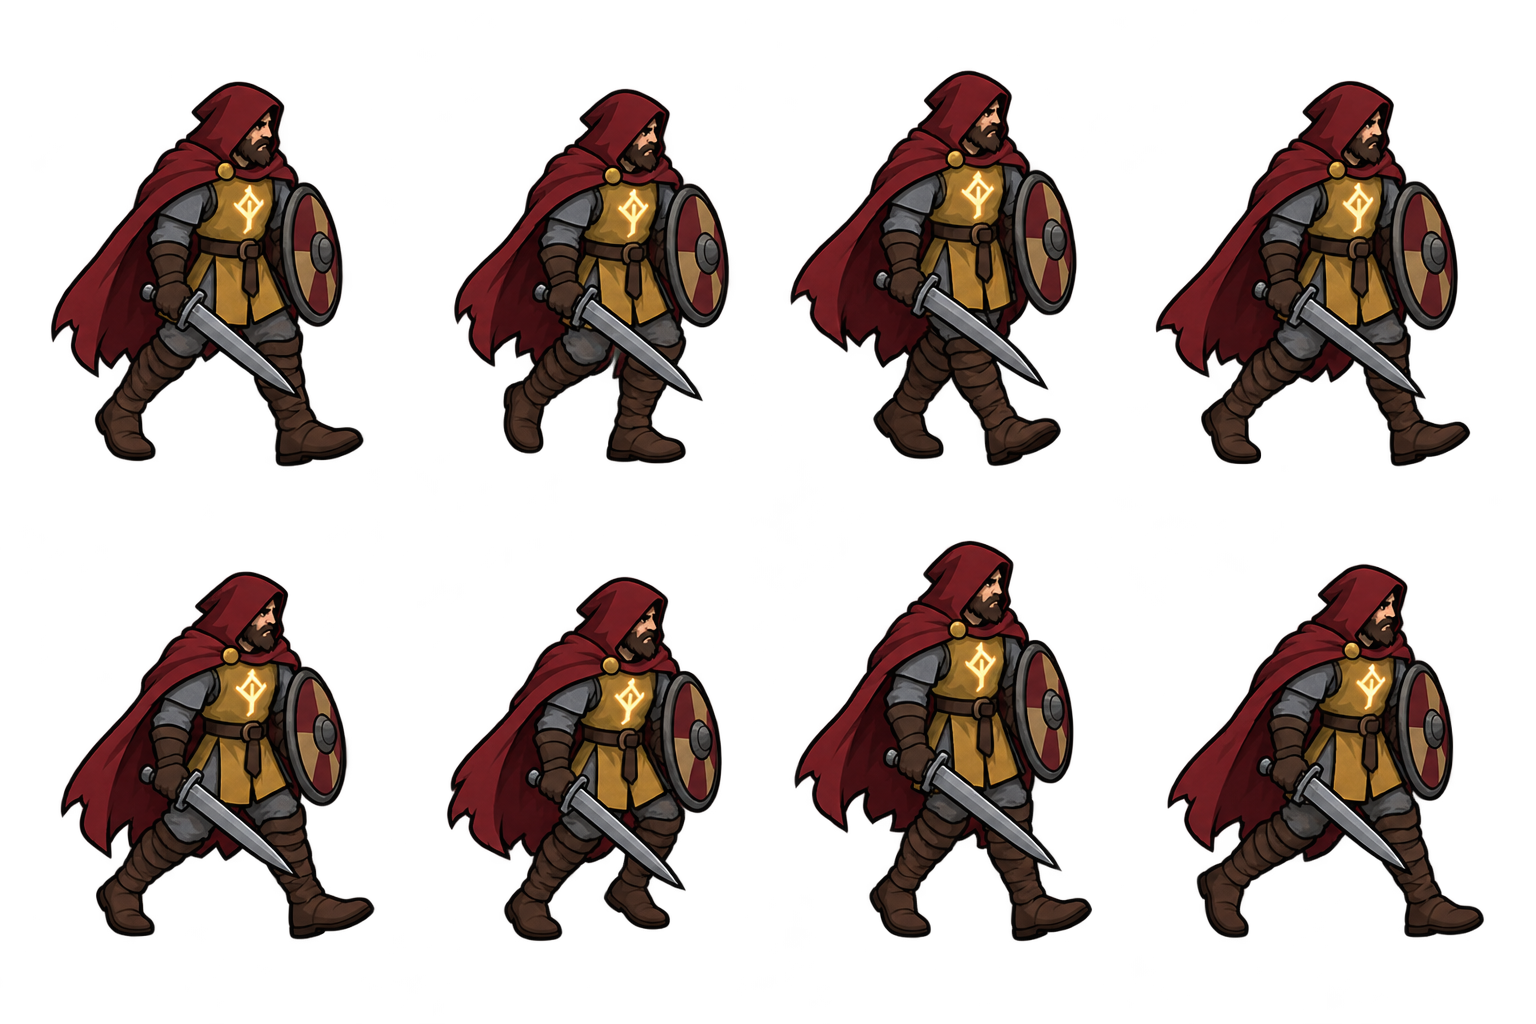
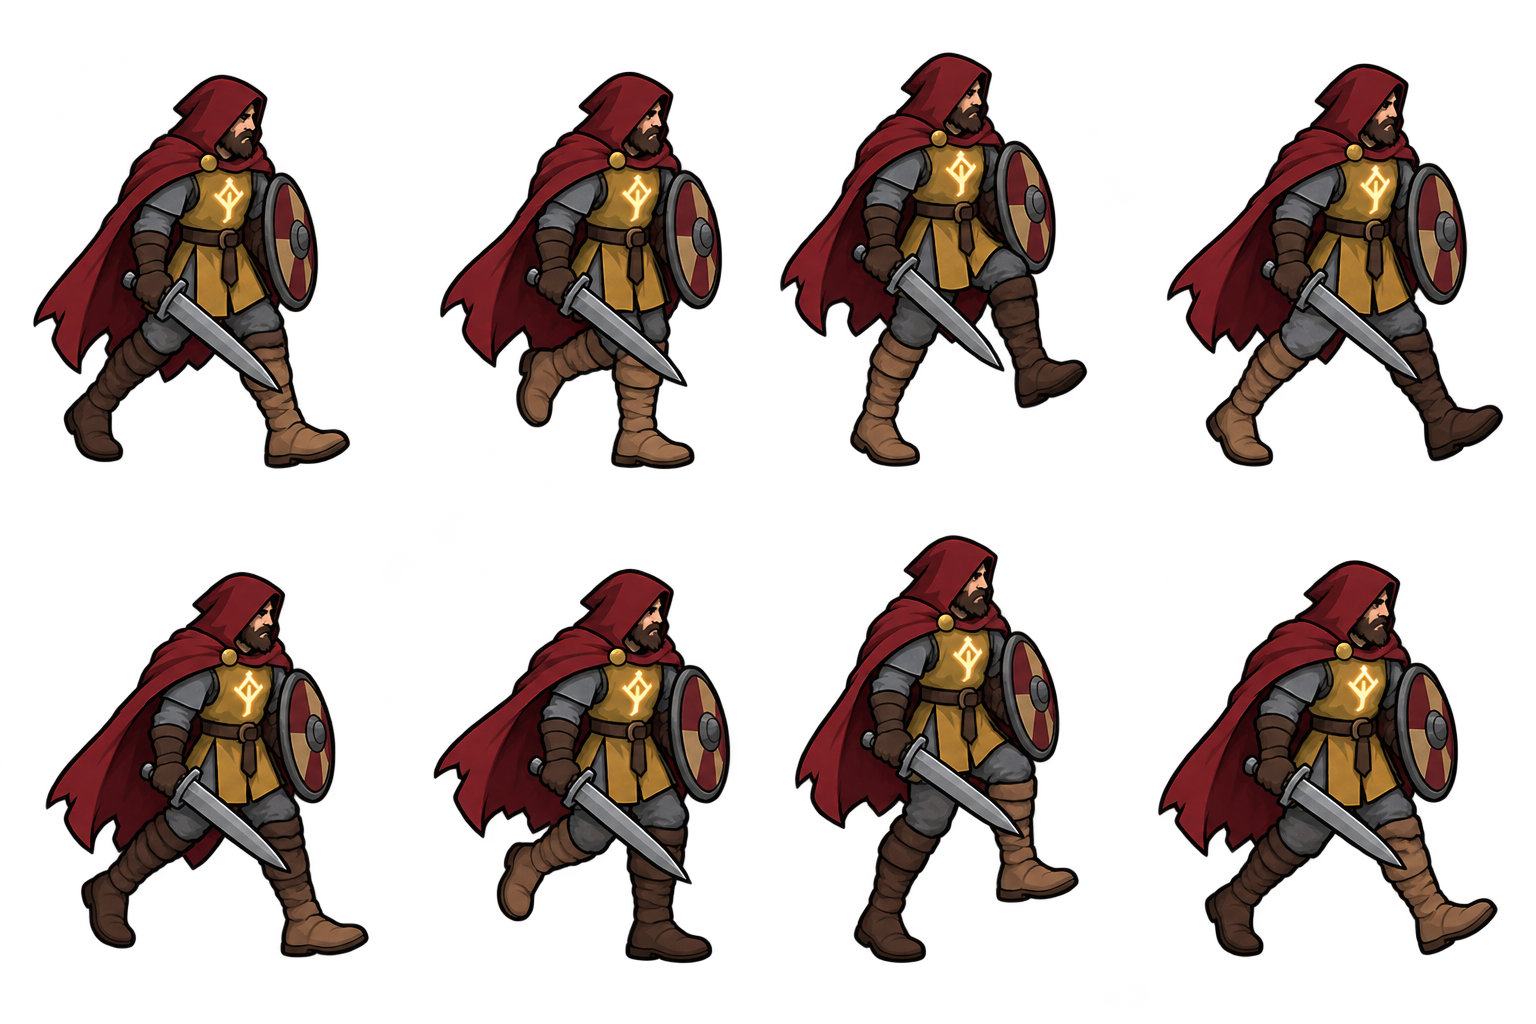
Воїн: нова ходьба — чоботи різного кольору, цикл із 6 різних поз (ноги чергуються), ~7,5 кадру/с

diff --git a/src/data/heroAnim.ts b/src/data/heroAnim.ts
@@ -3,7 +3,9 @@
 // - the main sheet (docs/art/warrior-anim.png, 6 × 3; "0-5:xy,6-7:x") — idle, attack, skill,
 //   dash, hit (its first row, an older walk, is not used);
 // - the walk (docs/art/warrior-walk.png, 4 × 2, COLS=4; "0-7:xy75" — the generator drew the
-//   body rising and dipping 18 px, which shakes; three quarters of it are taken out).
+//   body rising and dipping up to 20 px, which shakes; three quarters of it are taken out). The
+//   boots are told apart by colour (near — light, far — dark); two of the eight frames repeat
+//   the first step and are left out, so the cycle has six distinct poses.
 // Every cell has the feet of the figure at `anchor`; the figure faces right.
 
 export type HeroAnimId = 'walk' | 'idle' | 'attack' | 'cast' | 'dash' | 'hurt';
@@ -25,16 +27,17 @@ export const WARRIOR_ANIM = {
     walk: {
       src: 'sprites/anim/warrior-walk.png',
       columns: 4,
-      cell: [168, 199] as [number, number],
-      anchor: [88, 196] as [number, number],
-      frameHeight: 189,
+      cell: [177, 210] as [number, number],
+      anchor: [89, 206] as [number, number],
+      frameHeight: 198,
     },
   },
   /** The sheet of each animation (the main one if not listed). */
   sheetOf: { walk: 'walk' } as Partial<Record<HeroAnimId, 'main' | 'walk'>>,
   /** Frames of each animation (cell numbers on its sheet, row by row). */
   frames: {
-    walk: [0, 1, 2, 3, 4, 5, 6, 7],
+    /** Light boot ahead → it carries → the dark one passes → dark ahead → it carries → the light one passes. */
+    walk: [0, 1, 2, 3, 5, 6],
     idle: [6, 7],
     attack: [8, 9, 10, 11],
     cast: [12, 13],
@@ -49,7 +52,7 @@ export const WARRIOR_ANIM = {
     hurt: [0.1, 0.12],
   },
   /** World px walked per full walk cycle (two steps). */
-  stride: 120,
+  stride: 96,
   /** Seconds per breath frame. */
   breath: 0.7,
   /** A hit shows the recoil at most this often (s): contact hits come many per second. */

diff --git a/docs/art/README.md b/docs/art/README.md
@@ -38,24 +38,25 @@ Row 3 — 1) charging, sword low, knees bent; 2) sword raised high overhead, che
 
 Ряди «ходьба / спокій і удар / скіл, ривок, влучання» — шаблон і для інших персонажів (для ворогів — свої рухи).
 
-**Ходьбу генеруй окремо, з описом кожного кадру** — інакше генератор малює 6 майже однакових стійок, і ноги «вібрують». Промпт ходьби на 8 кадрів (сітка 4×2):
+**Ходьбу генеруй окремо, з описом кожного кадру й чоботами різного кольору** — інакше генератор малює 8 майже однакових стійок (ту саму ногу спереду), і ходьба виглядає як тупцювання. Різний колір чобіт дає і генераторові, і нам перевірити, що ноги чергуються. Генератор однаково може повторити кадр — перевір кожен і візьми в цикл лише правильні (`frames.walk` у `src/data/heroAnim.ts`). Промпт ходьби на 8 кадрів (сітка 4×2):
 
 ```
 Using exactly this character and style, draw ONLY a walk cycle sprite sheet:
 8 frames in a grid of 4 columns × 2 rows, landscape image, reading order left to right, top to bottom.
 Facing right, three-quarter view, same size and scale in every frame, one figure per cell,
 figures never touch, feet on the same ground line, identical design, colours and outlines.
-The torso, head, shield and sword arm stay almost still; the LEGS do the walking.
-Use a long, clearly visible stride so the legs are easy to read at small size.
-"Near leg" = the leg closer to the viewer, "far leg" = the other one.
-1) Contact: near leg forward, heel down; far leg back, on its toes.
-2) Down: weight on the near leg, knee bent, body slightly lower; far leg lifting.
-3) Passing: far leg swings forward past the near leg; body highest.
-4) Up: far leg reaching forward, near leg pushing off behind.
-5) Contact: FAR leg forward, heel down; near leg back — the opposite of frame 1.
-6) Down: weight on the far leg; near leg lifting.
-7) Passing: near leg swings forward past the far leg; body highest.
-8) Up: near leg reaching forward, far leg pushing off behind.
+To tell the legs apart: the NEAR leg (closer to the viewer) has a LIGHT tan boot,
+the FAR leg has a DARK brown boot. Keep these colours in every frame.
+1) LIGHT boot far forward, heel on the ground; DARK boot far behind, on its toes.
+2) Weight on the LIGHT boot, knee bent; DARK boot lifted off the ground behind.
+3) DARK boot lifted high (knee raised), swinging past the LIGHT leg; body at its highest.
+4) DARK boot reaching forward in the air, LIGHT boot pushing off behind.
+5) DARK boot far forward, heel on the ground; LIGHT boot far behind, on its toes.
+6) Weight on the DARK boot, knee bent; LIGHT boot lifted off the ground behind.
+7) LIGHT boot lifted high (knee raised), swinging past the DARK leg; body at its highest.
+8) LIGHT boot reaching forward in the air, DARK boot pushing off behind.
+Frames 1 and 5 must look clearly different: a different boot colour in front.
+In frames 3 and 7 one foot must be clearly off the ground.
 No motion blur, no effects, no text, no grid lines, fully transparent background.
 ```
 
